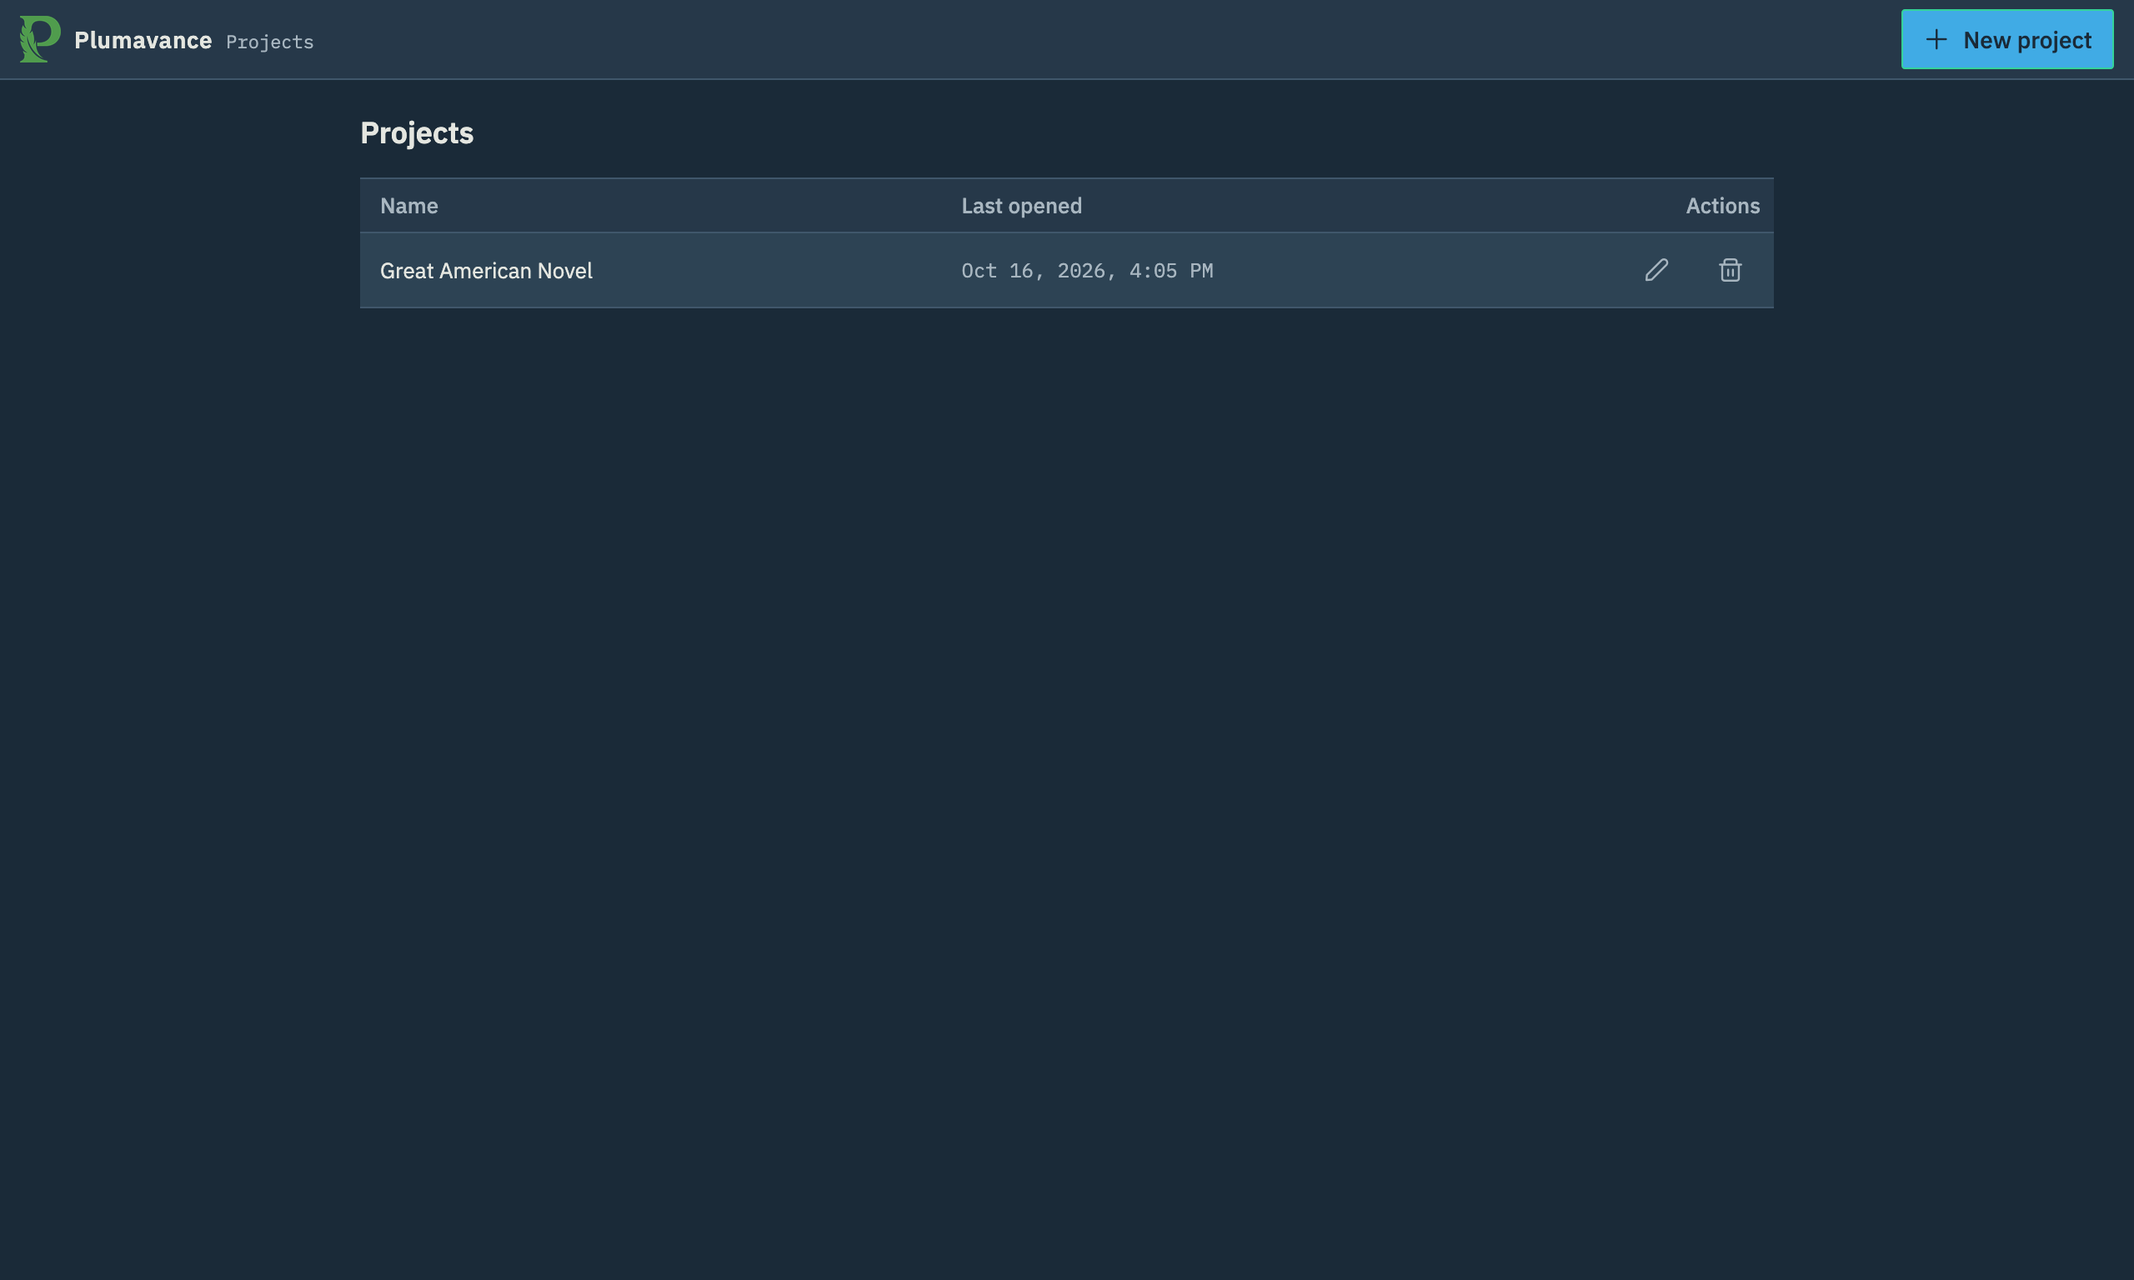
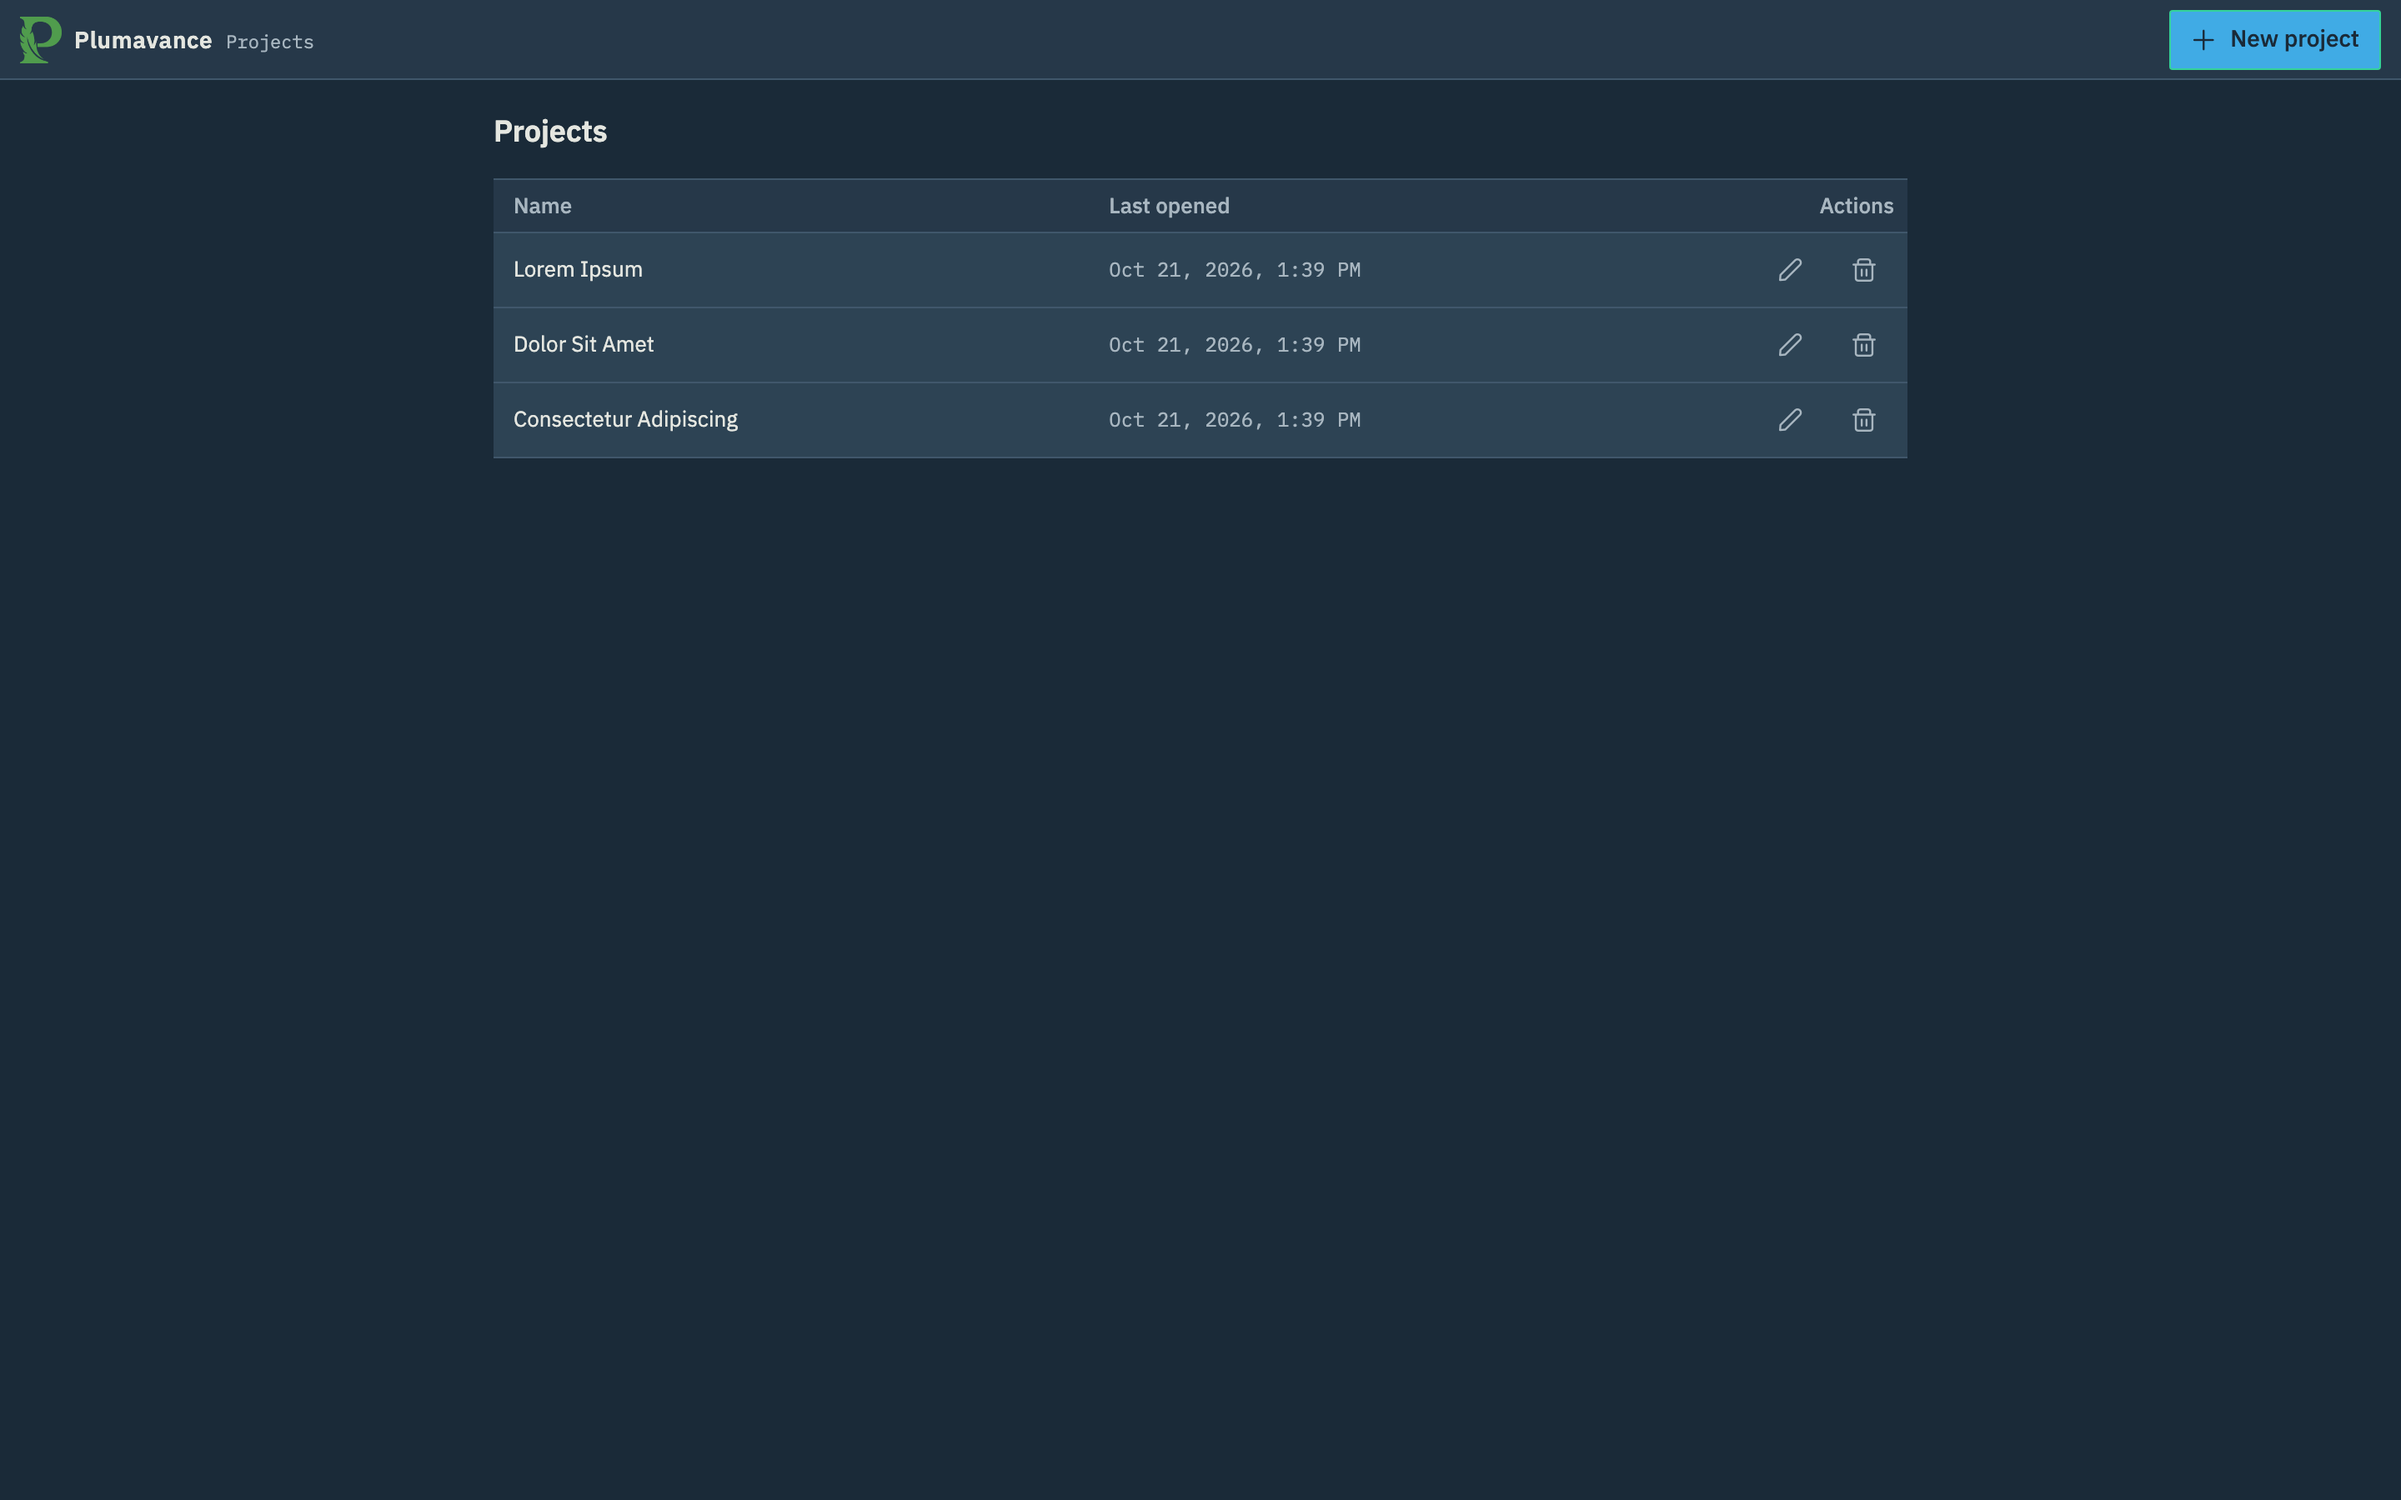
docs: update readme

Changed region(s): [[0.1562, 0.0625, 0.8438, 0.3125], [0.0, 0.0, 0.1562, 0.0625], [0.875, 0.0, 1.0, 0.0625]]

diff --git a/README.md b/README.md
@@ -24,14 +24,14 @@ Plumavance is currently in **early beta**. While breaking changes are not antici
 
 # Screenshots
 
-On the homepage you view and manage your various projects.
+Manage writing projects from the project library.
 
 <p align="center">
    <img src="assets/images/app-01.png"
         alt="Plumavance homepage" />
 </p>
 
-In main view, you manage chapter folders, scenes, notes, snapshots, and sometimes, write.
+Organize chapters and scenes in the binder, write in the editor, and keep private notes in the inspector.
 
 <p align="center">
    <img src="assets/images/app-02.png"
@@ -43,6 +43,27 @@ Focus mode stays centered on the active line.
 <p align="center">
    <img src="assets/images/app-03.png"
         alt="Plumavance focus view" />
+</p>
+
+Open two scenes side by side while revising or working from reference material.
+
+<p align="center">
+   <img src="assets/images/app-04.png"
+        alt="Plumavance split editor" />
+</p>
+
+Compare a snapshot with the current draft before restoring an earlier version.
+
+<p align="center">
+   <img src="assets/images/app-05.png"
+        alt="Plumavance snapshot comparison" />
+</p>
+
+Choose the binder contents and output settings for manuscript and e-reader exports.
+
+<p align="center">
+   <img src="assets/images/app-06.png"
+        alt="Plumavance compile dialog" />
 </p>
 
 # Setup and Development
